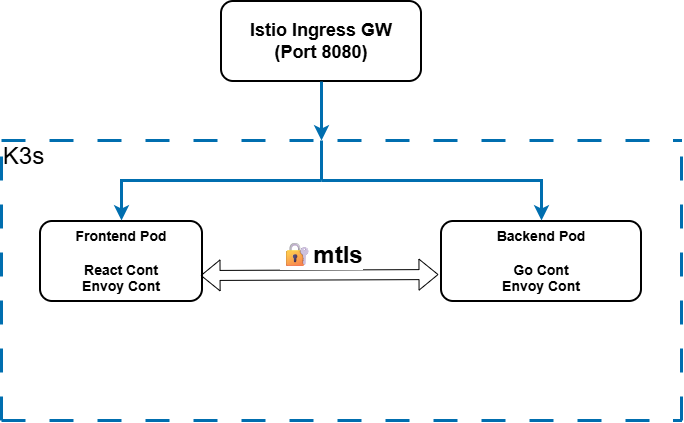
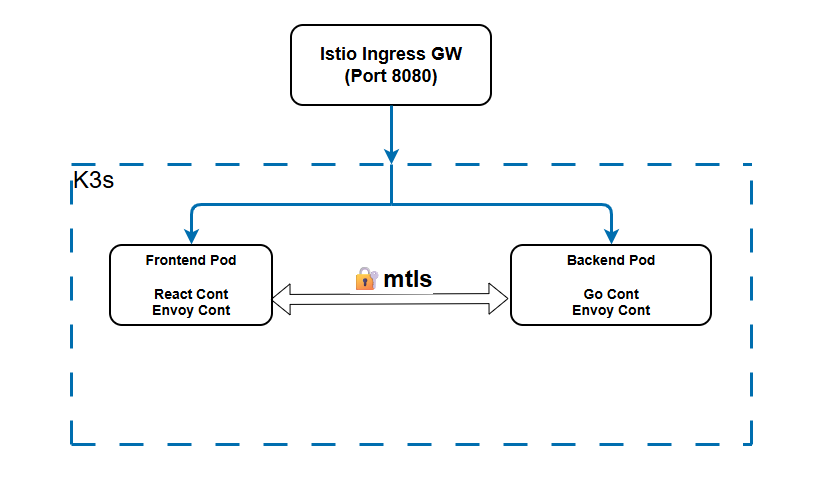
Update Istio docs and image

diff --git a/docs/Istio.md b/docs/Istio.md
@@ -1,0 +1,144 @@
+# What is Istio?
+
+Istio is an open-source service mesh that manages communication between microservices.
+It works by injecting sidecar proxies (Envoy) into each pod, allowing it to control:
+- Traffic routing
+- Security policies
+- Observability
+
+This enables enforcing infrastructure-level concerns without modifying application code.
+
+## Why Use Istio for Security?
+
+In a default Kubernetes environment:
+
+- Service-to-service communication is not encrypted by default  
+- There is no strong identity verification between services  
+
+This creates security risks such as:
+
+- Unauthorized access between services
+- Traffic interception
+- Service impersonation
+
+## Istio Solution
+
+Istio addresses these issues by:
+
+- Enforcing mutual TLS (mTLS) between services
+- Assigning unique identities to each workload
+- Ensuring that only authenticated and encrypted traffic is allowed
+
+
+## What is mTLS?
+
+mTLS (Mutual TLS) is a security protocol where:
+
+- Both the client and server authenticate each other
+- All communication is encrypted
+
+With Istio:
+
+- Certificates are automatically generated and rotated
+- Encryption is enforced transparently
+- No application changes are required
+
+## mTLS Modes in Istio
+
+Istio supports different modes for controlling mTLS behavior using PeerAuthentication.
+
+1. PERMISSIVE Mode
+- Encrypted (mTLS) traffic
+- Plain-text traffic
+
+2. STRICT Mode (Used in This Project)
+- Only mTLS-encrypted traffic is allowed
+- Plain-text communication is rejected
+
+3. DISABLE Mode
+- mTLS is completely disabled
+- All traffic is plain-text
+
+Why STRICT Mode?
+
+- This project uses **STRICT mTLS mode** to enforce secure communication between services.
+
+Benefits:
+- End-to-end encryption between all pods
+- Verified service identity (no impersonation)
+- Blocks unauthorized or insecure traffic
+- Enables a Zero Trust architecture
+
+With STRICT mode enabled:
+
+Frontend → Backend communication is:
+- Encrypted
+- Authenticated
+- Any unknown or non-mTLS service:
+  - Cannot connect
+  - Is automatically rejected
+
+
+## Role of Istio Ingress (Brief)
+
+The Istio Ingress Gateway acts as the secure entry point for external traffic.
+
+Controls how requests enter the cluster
+Can enforce TLS and routing rules
+Integrates with Istio security policies
+
+## Installation & Configuration Steps
+```
+# 1. Install Istio with cert rotation settings
+istioctl install --set profile=demo \
+  --set values.pilot.env.CITADEL_SELF_SIGNED_CA_CERT_TTL=8760h \
+  --set values.pilot.env.CITADEL_SELF_SIGNED_ROOT_CERT_CHECK_INTERVAL=1h \
+  --set values.pilot.env.CITADEL_SELF_SIGNED_ROOT_CERT_GRACE_PERIOD_PERCENTILE=20
+
+kubectl delete secret istio-ca-secret -n istio-system
+kubectl rollout restart deployment istiod -n istio-system
+kubectl rollout status deployment istiod -n istio-system
+
+# 2. Verify Istio control plane is running
+kubectl get pods -n istio-system
+
+# 3. Move ingressgateway off port 80/443 to avoid Traefik conflict
+kubectl edit daemonsets.apps -n kube-system svclb-istio-ingressgateway-e5a375fc
+# change 80 → 8080 and 443 → 8443
+
+kubectl edit svc -n istio-system istio-ingressgateway
+# change 80 → 8080 and 443 → 8443
+
+# 4. Enable sidecar injection on your namespace
+kubectl label namespace default istio-injection=enabled
+
+# 5. Apply your app manifests (deployments, services, gateway, virtualservices, peerauth)
+kubectl apply -f Kubernetes/
+
+# 6. Restart pods so sidecars get injected
+kubectl rollout restart deployment golang-app react-app
+
+# 7. Verify pods show 2/2
+kubectl get pods
+# golang-app-xxx   2/2   Running  ✓
+# react-app-xxx    2/2   Running  ✓
+
+# 8. Verify all proxies are synced
+istioctl proxy-status
+
+# 9. Verify routes are on 8080
+istioctl proxy-config routes \
+  $(kubectl get pod -n istio-system -l app=istio-ingressgateway \
+    -o jsonpath='{.items[0].metadata.name}') -n istio-system
+# Should show http.8080 for backend.local and frontend.local
+
+# 10. Test it works
+curl -H "Host: backend.local" http://192.168.1.15:8080/health
+# Expected: {"msg":"healthy"}
+
+# 11. Install observability addons (Grafana, Kiali, Prometheus, Jaeger)
+kubectl apply -f samples/addons/
+
+# 12. Verify addons are running
+kubectl get pods -n istio-system
+```
